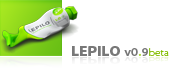
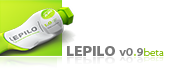
DateTime dings

diff --git a/public/stylesheets/lepilo.css b/public/stylesheets/lepilo.css
@@ -4,7 +4,7 @@
 }
 
 body { 
-  background-color:#333; 
+  background-color:#fff; 
   color:#3d4649; 
   font-family: "HelveticaNeue", "Helvetica Neue", "Arial", sans-serif;
   font-size:12px;
@@ -113,31 +113,60 @@ div.progressBar {
 }
 
 div.progressBar div.border {
-  border:1px solid grey;
+  background-image:url(/images/container.png); 
+  background-repeat: repeat-x;
+  border-bottom: 1px solid #999; 
+  width: 90%; 
+  margin: 2px 5px 2px 0; 
+  padding: 0px; 
+  margin-left: auto;
+  margin-right: auto;
   width:100%;
 }
 
 div.progressBar div.background {
-  background-color:#333;
-  height:18px;
+  background-image:url(/images/progress.gif); 
+  background-repeat:repeat-x;
+  border-right: 1px solid #ccc; 
+  height: 16px
   width:0%;
 }
 
+div.progress-container {
+  background-image:url(/images/container.png); 
+  background-repeat: repeat-x;
+  border-bottom: 1px solid #999; 
+  width: 90%; 
+  margin: 2px 5px 2px 0; 
+  padding: 0px; 
+  margin-left: auto;
+  margin-right: auto;
+}
+
+div.progress-container > div {
+  background-image:url(/images/progress.gif); 
+  background-repeat:repeat-x;
+  border-right: 1px solid #ccc; 
+  height: 16px
+}
+
+
 #navigation {
-  padding-left:240px;
-  margin-top:10px;
-  height:70px;
+  padding-left:20px;
+  padding-top:10px;
+  min-height:70px;
   border-bottom:1px solid #bfbfbf;
   overflow:hidden;
   clear:both;
 }
 
 #navigation .lepilo {
-  position:absolute;
-  top:0px;
-  left:20px;
+  position:relative;
+  top:-10px;
+  left:0px;
   float:left;
-  margin-right:25px;
+  margin-right:15px;
+  margin-bottom:0px;
 }
 
 
@@ -180,7 +209,7 @@ div.progressBar div.background {
 }
 
 #fdboptions {
-  background-image:url(/images/gradient.png); 
+  background-image:url(/images/gradientd.png); 
   background-repeat:repeat-x;
   margin-top:0px;
   margin-bottom:0px;
@@ -200,12 +229,11 @@ div.progressBar div.background {
 #fdbheader {
   background-image:url(/images/bgheader.png); 
   background-repeat:repeat-x;
-  background-color: #333;
+  background-color:transparent;
   overflow:auto;
   height:30px;
   margin-top:0px;
   margin-bottom:0px;
-  border-top:1px solid #fff;
 }
 
 #fdbcontent {
@@ -215,7 +243,7 @@ div.progressBar div.background {
 }
 
 #fdbcontainer {
-  background-color:#333;
+  background-color:#ccc;
   padding-bottom:20px;
   bottom:0px;
 }
@@ -343,6 +371,7 @@ div.progressBar div.background {
   text-align:left;
   color: #aaa;
   font-size: 10px;
+  line-height: 16px;
   z-index:10000;
   opacity:0.9;
   filter:alpha(opacity:90);  
@@ -542,23 +571,6 @@ code {
   background-color:#f8ffe7;
 }
 
-div.progress-container {
-  border: 1px solid #ccc; 
-  width: 650px; 
-  margin: 2px 5px 2px 0; 
-  padding: 1px; 
-  margin-left: auto;
-  margin-right: auto;
-  background: white;
-}
-
-div.progress-container > div {
-  background-image:url(/images/progress.png); 
-  background-repeat:repeat-x;
-  height: 12px
-}
-
-
 .fdbblock {
   margin-right:50px;
   margin-bottom:25px;
@@ -662,6 +674,11 @@ div.ipmtitle:hover {
   width:236px;
   height:112px;
   overflow:hidden;
+  border: 1px solid #bbb;
+}
+
+.listblock:hover {
+  border: 1px solid #d4e543;
 }
 
 div.block256x128 {
@@ -812,12 +829,11 @@ div.block128x128:hover {
   margin-right:6px;
   margin-right:2px;
   width:16px;
-  /*baseline/sub/super/top/text-top/middle/bottom/text-bottom/length/%*/
   vertical-align:bottom;
 }
 
 .icontainer {
-  top:-2px;
+  top:-5px;
   float:right;
   position:relative;
   width:auto;

diff --git a/app/controllers/articles_controller.rb b/app/controllers/articles_controller.rb
@@ -86,9 +86,10 @@
     if params['position']
       addlink.update
       addlink.position = params['position']
+      addlink.save
     end
 
-    redirect_to :action => 'edit', :id => @article, :fragment => params['fragment'] if addlink.save               
+    redirect_to :action => 'edit', :id => @article, :fragment => params['fragment']                
   end
 
 
@@ -130,7 +131,6 @@
   
   def writeindesignxml
     @article = Article.find(params[:id])
-    # render :layout => false
     indesignxml = render_to_string :layout => false
     timestamp = Time.now.to_i.to_s
     
@@ -144,7 +144,11 @@
       f.write( indesignxml )
     end
 
-    redirect_to :action => 'edit', :id => params[:id], :fragment => 'print'
+    send_file "#{RAILS_ROOT}/public/indesign.xml"
+  end
+  
+  def getindesignfile
+    send_file "#{RAILS_ROOT}/public/a4-xml-import.indd"
   end
   
   def simple

diff --git a/app/controllers/mediablocks_controller.rb b/app/controllers/mediablocks_controller.rb
@@ -103,9 +103,10 @@ class MediablocksController < ApplicationController
     BlockLink.find(params[:id]).destroy
     if session[:current_article]
       redirect_to :controller => '/articles', :action => 'edit', :id => session[:current_article]
-    end
-    if session[:current_gallery]
+    elsif session[:current_gallery]
       redirect_to :controller => '/galleries', :action => 'edit', :id => session[:current_gallery]
+    else
+      render :nothing => true
     end    
   end
 end
